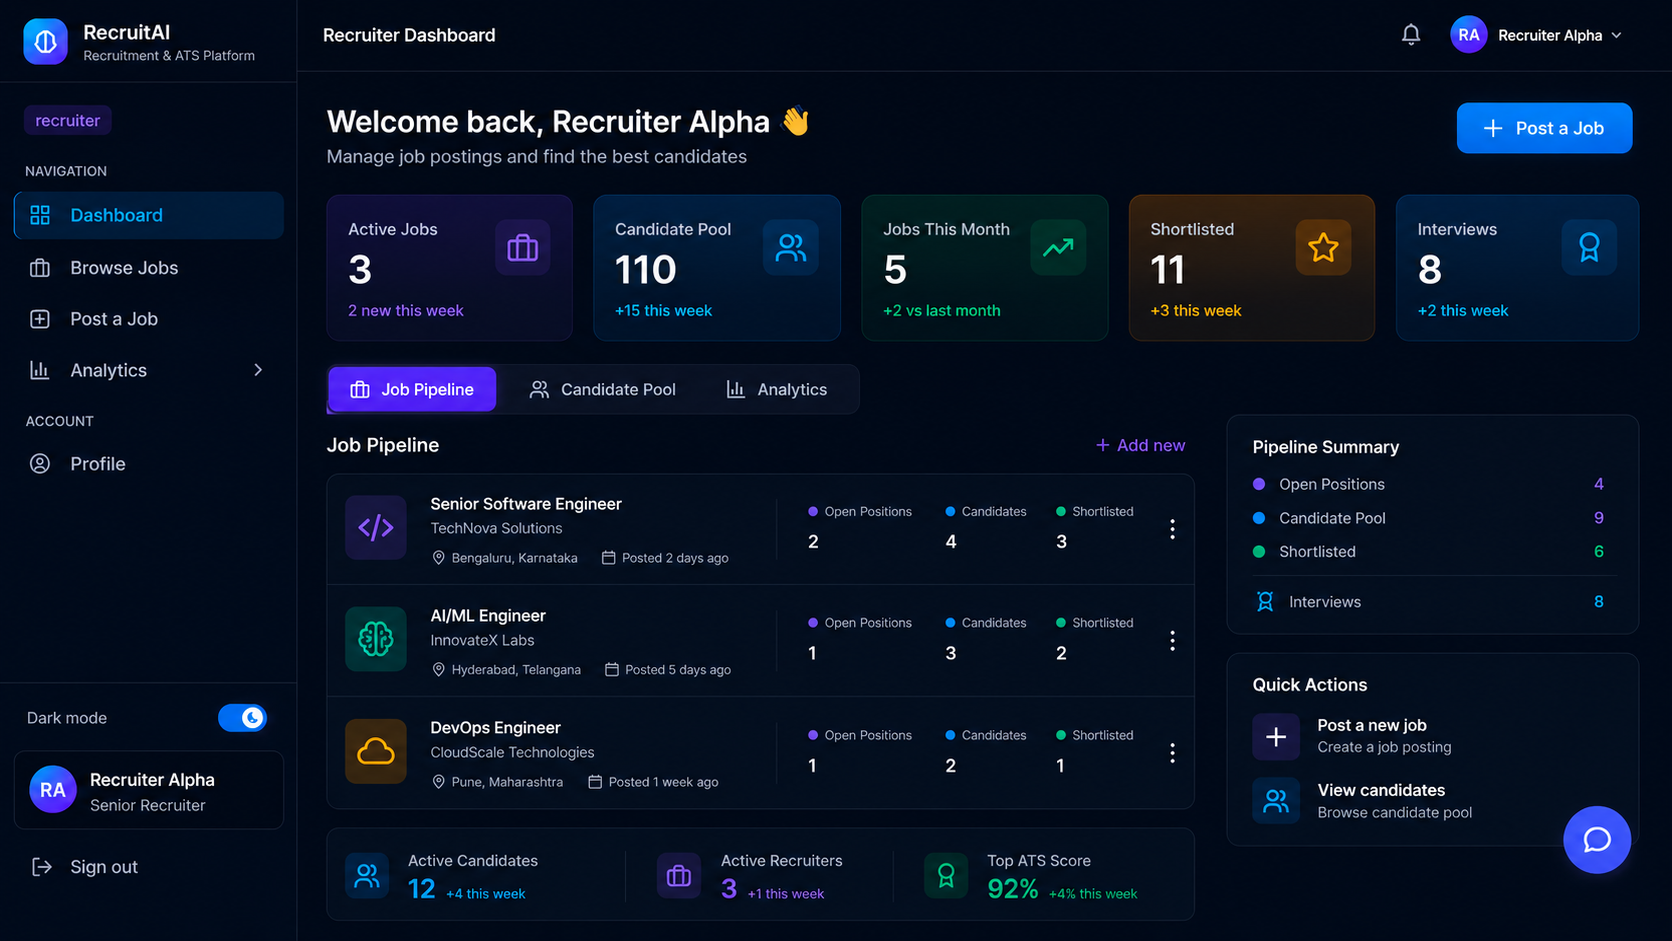
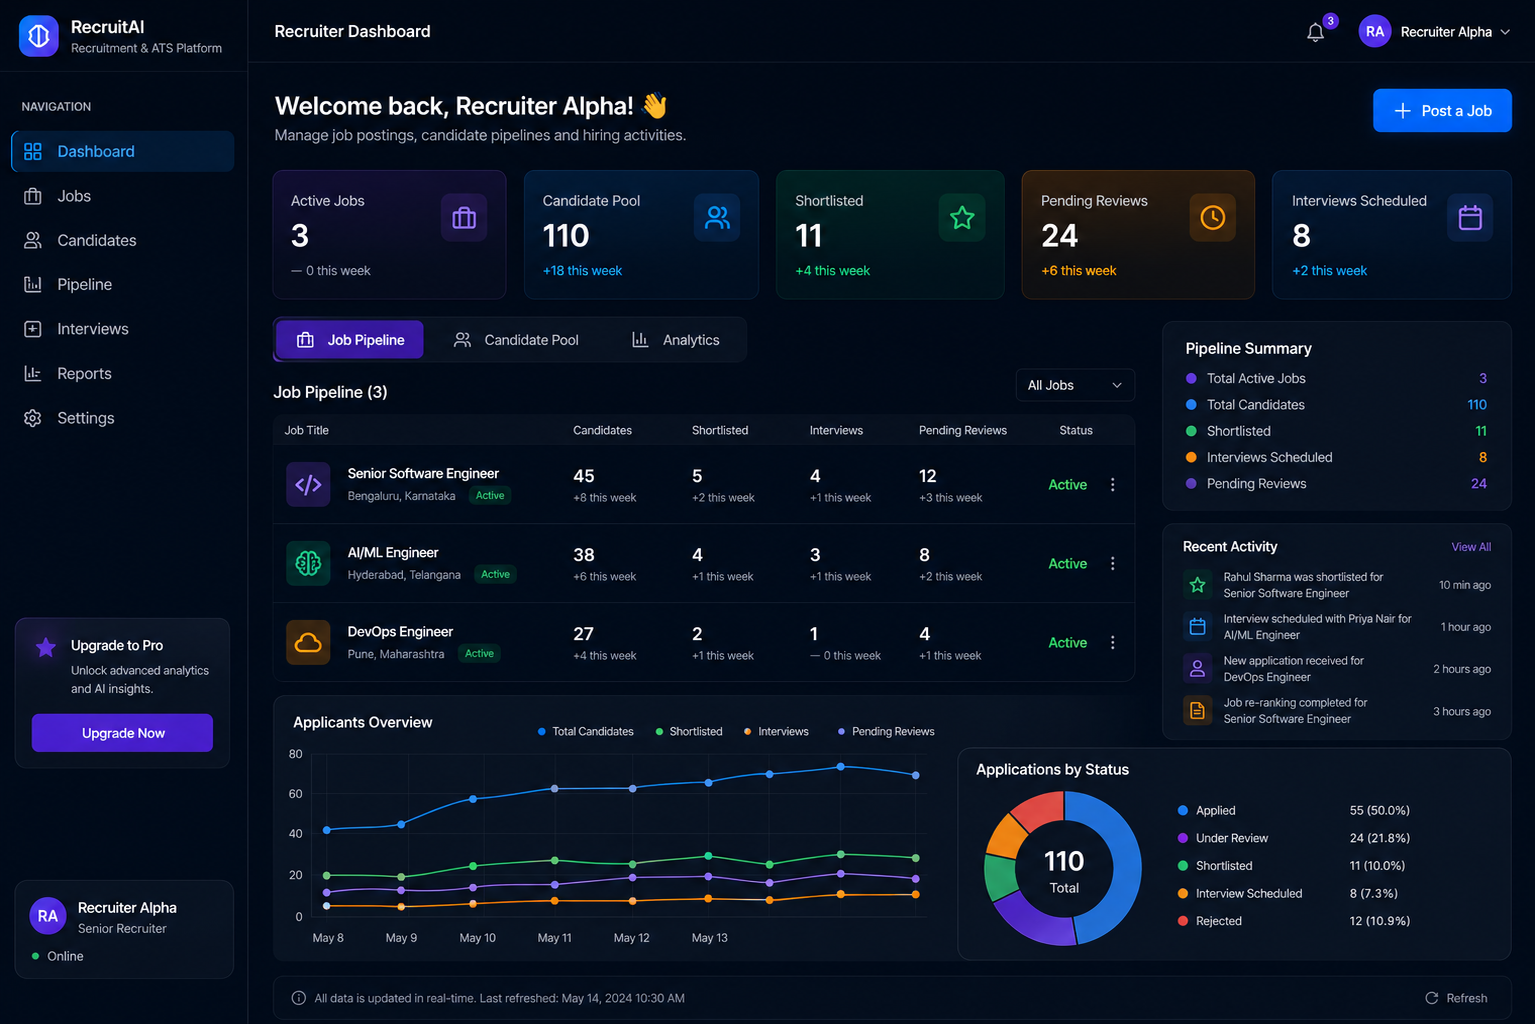
Enhance README with landing page and portfolio-quality screenshots

diff --git a/README.md b/README.md
@@ -36,6 +36,32 @@ RecruitAI is a production-grade full-stack web application that replaces spreads
 
 ---
 
+## Table of Contents
+
+- [Features](#features)
+- [Platform Highlights](#platform-highlights)
+- [Screenshots](#screenshots)
+  - [Landing Page](#landing-page)
+  - [Candidate Experience](#candidate-experience)
+  - [Recruiter Experience](#recruiter-experience)
+  - [Platform Administration](#platform-administration)
+- [Project Highlights](#project-highlights)
+- [Tech Stack](#tech-stack)
+- [System Architecture](#system-architecture)
+- [Installation](#installation)
+- [Environment Variables](#environment-variables)
+- [API Overview](#api-overview)
+- [Database Schema](#database-schema)
+- [Deployment](#deployment)
+- [Running Tests](#running-tests)
+- [Challenges & Solutions](#challenges--solutions)
+- [Project Structure](#project-structure)
+- [Future Improvements](#future-improvements)
+- [Contributing](#contributing)
+- [License](#license)
+
+---
+
 ## Features
 
 ### For Candidates
@@ -72,48 +98,106 @@ RecruitAI is a production-grade full-stack web application that replaces spreads
 
 ---
 
+## Platform Highlights
+
+- ✅ AI Resume Analysis
+- ✅ ATS Optimization
+- ✅ Job Match Analyzer
+- ✅ AI Career Coach
+- ✅ Candidate Ranking
+- ✅ Applicant Tracking System
+- ✅ Interview Preparation
+- ✅ Recruiter Pipeline Management
+- ✅ Real-Time Notifications
+- ✅ Multi-Provider AI Fallback
+- ✅ JWT Authentication & RBAC
+- ✅ Production Deployment (Vercel + Render + Neon)
+
+---
+
 ## Screenshots
+
+### Landing Page
+
+#### Home Page
+
+![Home Page](screenshots/home-page.png)
+
+Modern AI-powered recruitment platform landing page showcasing ATS optimization, AI candidate ranking, resume analysis, and recruiter workflow automation.
+
+---
 
 ### Candidate Experience
 
 #### Candidate Dashboard
-Track resumes, ATS scores, skill insights, and application progress from a unified dashboard.
 
 ![Candidate Dashboard](screenshots/candidate-dashboard.png)
 
+Track resumes, ATS scores, skill insights, and application progress from a unified dashboard.
+
 #### Resume Analysis
-AI-powered ATS scoring, strengths analysis, profile radar, and personalized improvement recommendations.
 
 ![Resume Analysis](screenshots/resume-analysis.png)
 
+AI-powered ATS scoring, strengths analysis, profile radar, and personalized improvement recommendations.
+
 #### Job Match Analyzer
-Compare resumes against job descriptions with AI-generated match scores, skill-gap analysis, and interview preparation insights.
 
 ![Job Match Analyzer](screenshots/job-match-analyzer.png)
 
+Compare resumes against job descriptions with AI-generated match scores, skill-gap analysis, and interview preparation insights.
+
 #### AI Career Coach
-Interactive AI assistant that provides career guidance, interview preparation, skill recommendations, and resume-based coaching.
 
 ![AI Career Coach](screenshots/ai-career-coach.png)
+
+Interactive AI assistant that provides career guidance, interview preparation, skill recommendations, and resume-based coaching.
+
+---
 
 ### Recruiter Experience
 
 #### Recruiter Dashboard
-Manage job postings, candidate pipelines, shortlists, interviews, and recruitment analytics in one place.
 
 ![Recruiter Dashboard](screenshots/recruiter-dashboard.png)
 
+Manage job postings, candidate pipelines, AI-powered candidate ranking, interviews, and recruitment analytics in one place.
+
 #### Post a Job
-Create detailed job descriptions and leverage AI-powered candidate ranking and matching.
 
 ![Post a Job](screenshots/post-job.png)
+
+Create detailed job descriptions and leverage AI-powered candidate ranking and matching.
+
+---
 
 ### Platform Administration
 
 #### Admin Dashboard
-Monitor platform activity, user distribution, ATS trends, recruiter engagement, and overall system health.
 
 ![Admin Dashboard](screenshots/admin-dashboard.png)
+
+Monitor platform activity, user distribution, ATS trends, recruiter engagement, and overall system health.
+
+---
+
+## Project Highlights
+
+- **Multi-provider AI routing with automatic failover** — Built a `BaseProvider` ABC, three concrete provider implementations (Gemini, OpenAI, Groq), and a `ProviderRouter` that routes by task and fails over transparently on quota/rate-limit/outage. Structured logs include `provider_used`, `fallback_triggered`, `fallback_chain`, and `latency_ms` per call.
+
+- **Production database session management** — Diagnosed and resolved a SQLAlchemy connection pool exhaustion bug specific to async LLM endpoints: DB connections are now explicitly released before long-running I/O via `db.close()`, allowing the pool to serve concurrent non-AI requests without increasing pool size.
+
+- **Full-stack TypeScript + Python application** — React 18 + TypeScript frontend with Vite, TanStack Query v5, and Zustand; FastAPI async backend with SQLAlchemy 2.0 and Pydantic v2 for strict schema validation end-to-end. Transparent access token refresh via Axios interceptor with in-flight request queuing.
+
+- **Multi-factor ATS scoring engine** — Weighted composite score combining skill keyword overlap, experience-year matching, education-level matching, and optional semantic similarity via sentence-transformers cosine similarity — with graceful degradation when embeddings are disabled (default on 512 MB free tier).
+
+- **8-migration Alembic schema history** — Database schema evolved through 8 versioned Alembic migrations: initial tables, application tracking status, email verification tokens, refresh/reset token hashing, admin bootstrap, composite performance indexes, per-user question deduplication history, and real-time notifications.
+
+- **Six-stage applicant tracking pipeline** — Complete recruitment workflow (apply → under_review → shortlisted → interview_scheduled → accepted/rejected) with `is_applied` integrity guard (prevents non-applicants from appearing in rankings), interview scheduling with meeting links and custom instructions, and in-app notifications on every status change.
+
+- **Serverless-ready infrastructure** — Backend runs on Render Docker (free tier, 512 MB RAM); database migrated to Neon PostgreSQL serverless with `pool_pre_ping=True` for connection keep-alive; frontend on Vercel CDN with automatic preview deployments per branch.
+
+- **Security by default** — JWT refresh token rotation with bcrypt-hashed storage (plain tokens never written to DB), HSTS and CSP response headers, IP-based rate limiting on all auth and AI endpoints, CORS allowlist with Vercel preview URL support, and `.dockerignore` preventing secrets from entering the Docker build context.
 
 ---
 
@@ -652,26 +736,6 @@ ai-resume-analyzer/
 ├── render.yaml                      # Render deployment configuration
 └── .env.example                     # Template for all environment variables
 ```
-
----
-
-## Project Highlights
-
-- **Multi-provider AI routing with automatic failover** — Built a `BaseProvider` ABC, three concrete provider implementations (Gemini, OpenAI, Groq), and a `ProviderRouter` that routes by task and fails over transparently on quota/rate-limit/outage. Structured logs include `provider_used`, `fallback_triggered`, `fallback_chain`, and `latency_ms` per call.
-
-- **Production database session management** — Diagnosed and resolved a SQLAlchemy connection pool exhaustion bug specific to async LLM endpoints: DB connections are now explicitly released before long-running I/O via `db.close()`, allowing the pool to serve concurrent non-AI requests without increasing pool size.
-
-- **Full-stack TypeScript + Python application** — React 18 + TypeScript frontend with Vite, TanStack Query v5, and Zustand; FastAPI async backend with SQLAlchemy 2.0 and Pydantic v2 for strict schema validation end-to-end. Transparent access token refresh via Axios interceptor with in-flight request queuing.
-
-- **Multi-factor ATS scoring engine** — Weighted composite score combining skill keyword overlap, experience-year matching, education-level matching, and optional semantic similarity via sentence-transformers cosine similarity — with graceful degradation when embeddings are disabled (default on 512 MB free tier).
-
-- **8-migration Alembic schema history** — Database schema evolved through 8 versioned Alembic migrations: initial tables, application tracking status, email verification tokens, refresh/reset token hashing, admin bootstrap, composite performance indexes, per-user question deduplication history, and real-time notifications.
-
-- **Six-stage applicant tracking pipeline** — Complete recruitment workflow (apply → under_review → shortlisted → interview_scheduled → accepted/rejected) with `is_applied` integrity guard (prevents non-applicants from appearing in rankings), interview scheduling with meeting links and custom instructions, and in-app notifications on every status change.
-
-- **Serverless-ready infrastructure** — Backend runs on Render Docker (free tier, 512 MB RAM); database migrated to Neon PostgreSQL serverless with `pool_pre_ping=True` for connection keep-alive; frontend on Vercel CDN with automatic preview deployments per branch.
-
-- **Security by default** — JWT refresh token rotation with bcrypt-hashed storage (plain tokens never written to DB), HSTS and CSP response headers, IP-based rate limiting on all auth and AI endpoints, CORS allowlist with Vercel preview URL support, and `.dockerignore` preventing secrets from entering the Docker build context.
 
 ---
 
